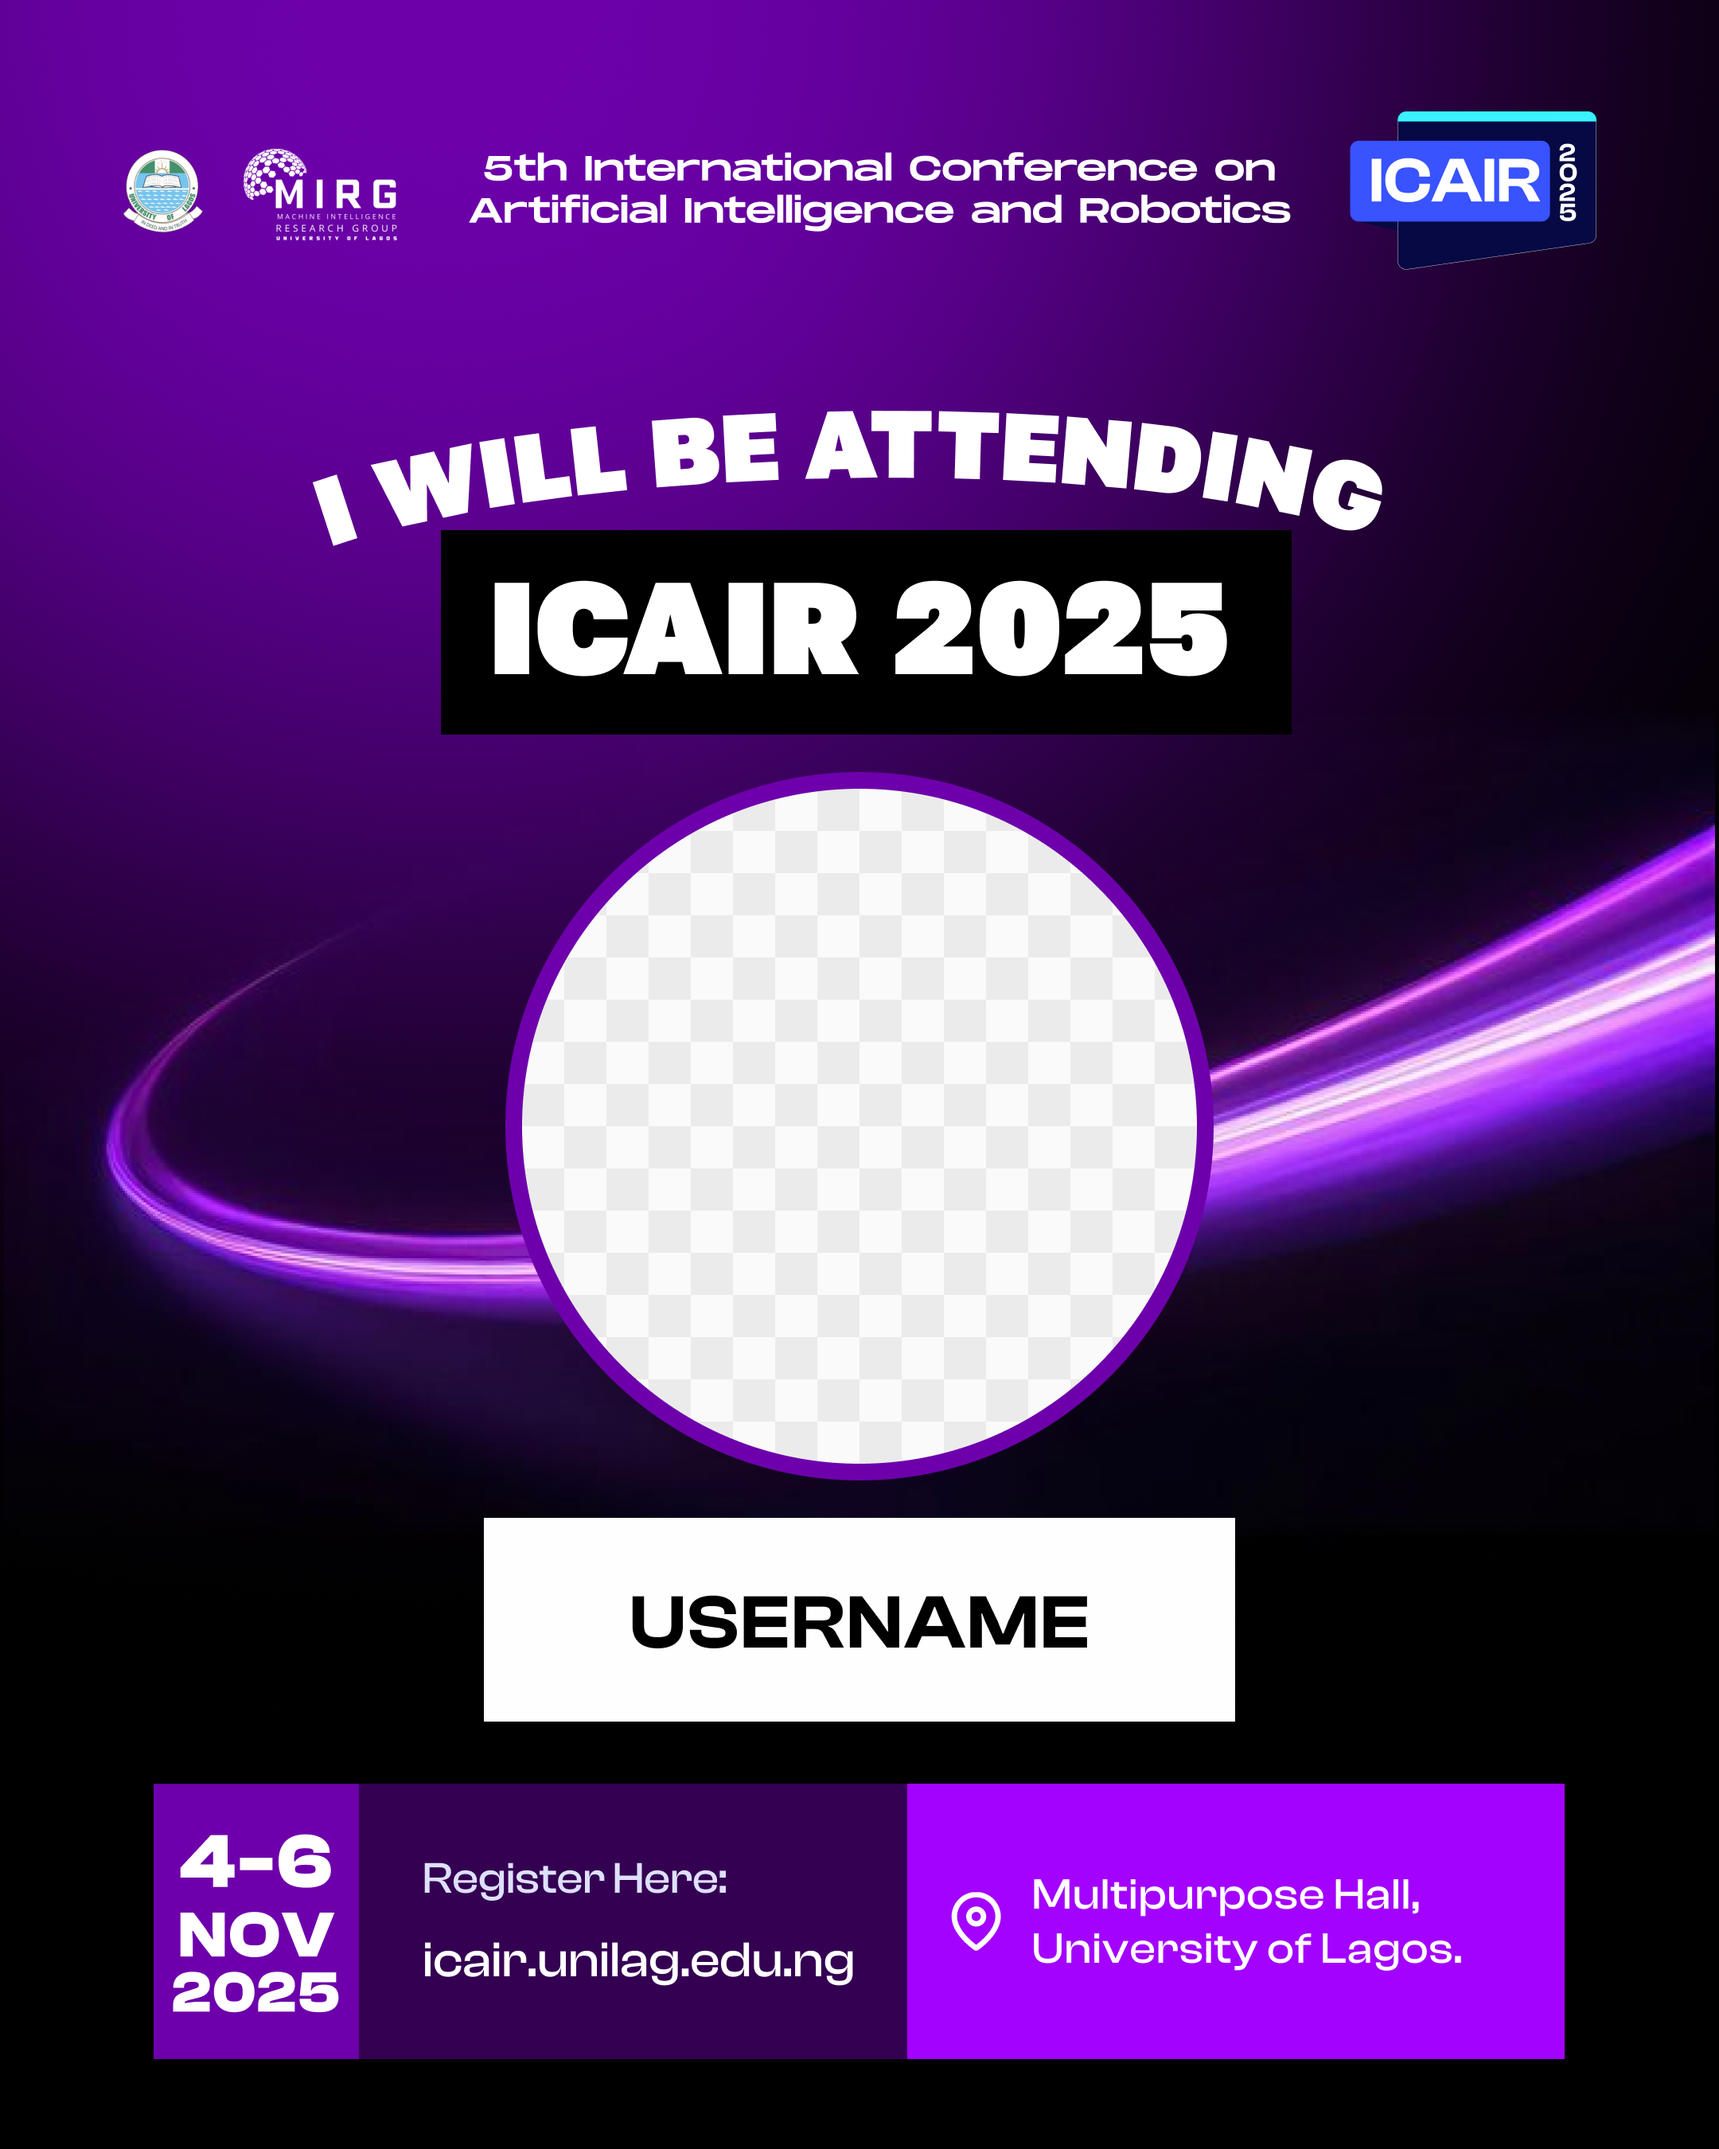
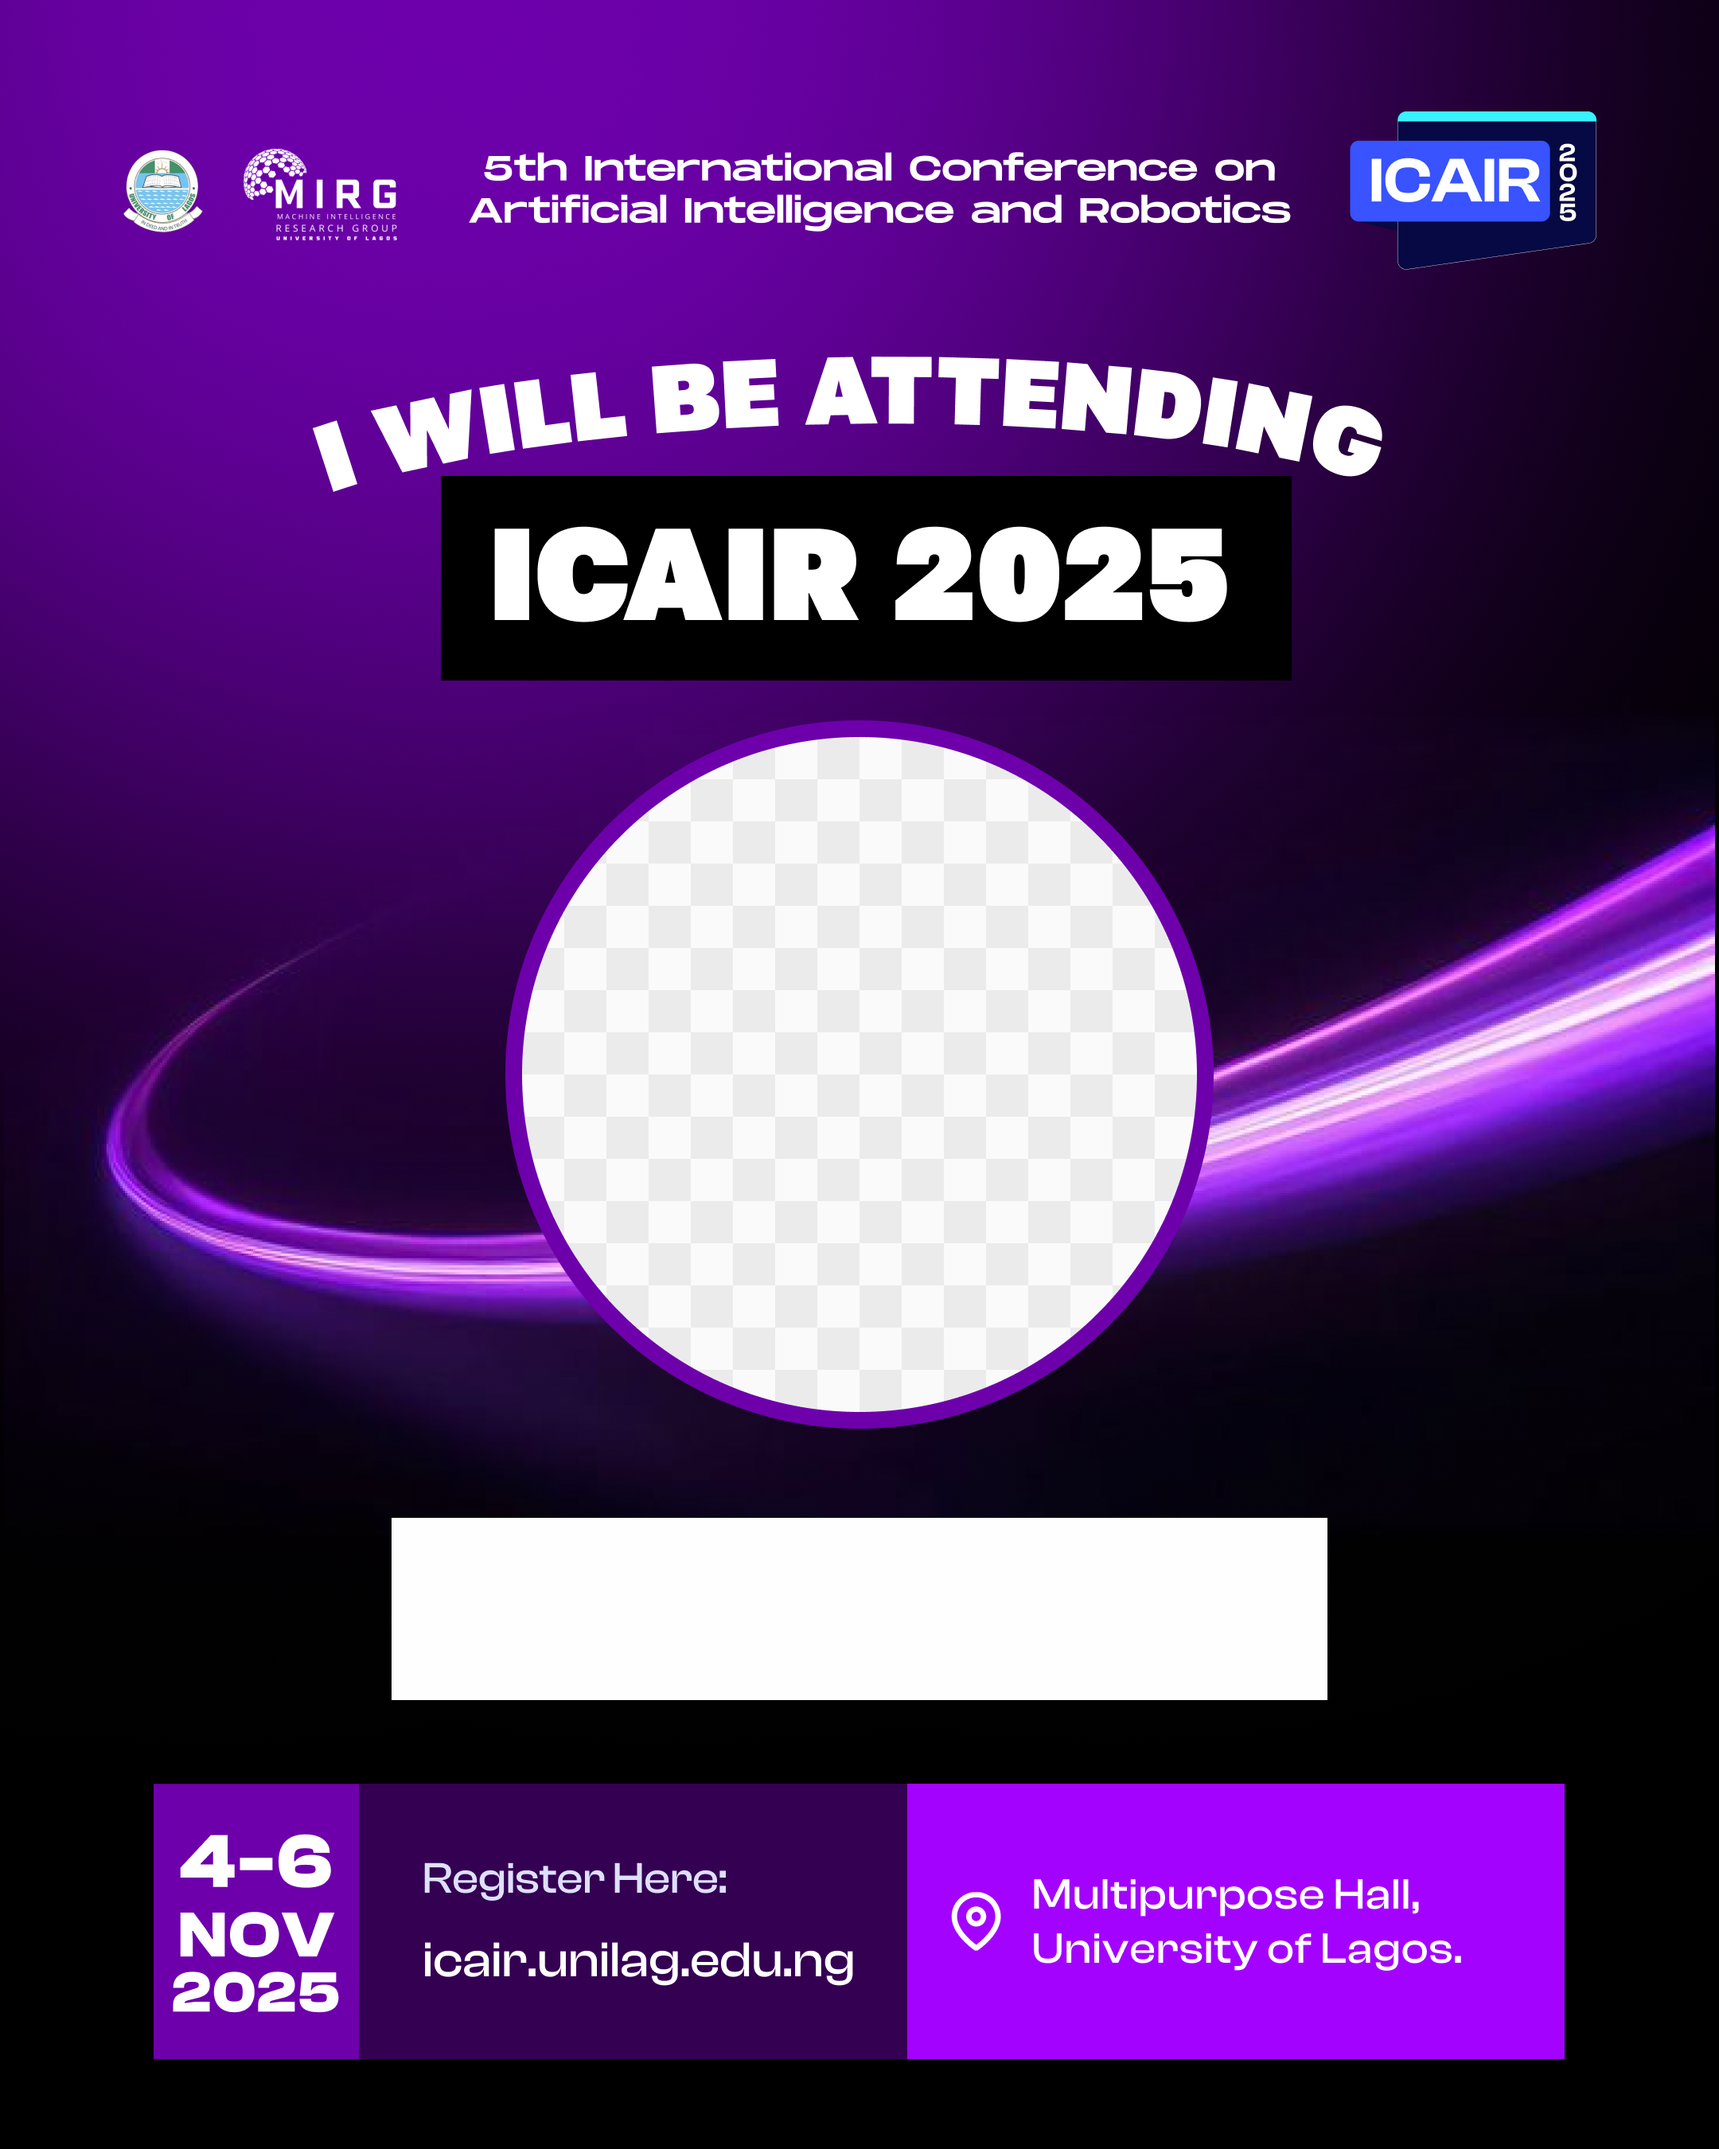
updated dp image

Changed region(s): [[0.1861, 0.1556, 0.8065, 0.7156], [0.2171, 0.6844, 0.7755, 0.8089]]

diff --git a/templates/index.html b/templates/index.html
@@ -279,14 +279,14 @@
 </head>
 <body>
     <div class="container">
-        <h1>ICAIR 2025</h1>
-        <p class="subtitle">Generate your conference profile picture</p>
+        <h1 id="pageTitle">ICAIR 2025</h1>
+        <p class="subtitle" id="pageSubtitle">Generate your conference profile picture</p>
 
         <div class="error-message" id="errorMessage"></div>
 
         <div class="input-group">
-            <label for="usernameInput">Username <span style="color: #dc2626;">*</span></label>
-            <input type="text" id="usernameInput" placeholder="Enter your username" maxlength="30" required>
+            <label for="usernameInput">Name <span style="color: #dc2626;">*</span></label>
+            <input type="text" id="usernameInput" placeholder="Enter your name" maxlength="30" required>
         </div>
 
         <div class="upload-area" id="uploadArea">
@@ -357,11 +357,13 @@
         function handleFile(file) {
             if (!file.type.startsWith('image/')) {
                 showError('Please upload an image file');
+                fileInput.value = '';
                 return;
             }
 
             if (file.size > 16 * 1024 * 1024) {
                 showError('File size must be less than 16MB');
+                fileInput.value = '';
                 return;
             }
 
@@ -372,7 +374,9 @@
             const username = usernameInput.value.trim();
 
             if (!username) {
-                showError('Please enter your username');
+                showError('Please enter your name');
+                usernameInput.focus();
+                fileInput.value = '';
                 return;
             }
 
@@ -402,6 +406,9 @@
                 loading.classList.remove('show');
                 previewContainer.classList.add('show');
 
+                document.getElementById('pageTitle').textContent = 'Your Profile Picture is Ready!';
+                document.getElementById('pageSubtitle').textContent = 'Download your customized ICAIR 2025 profile picture';
+
             } catch (error) {
                 console.error('Error:', error);
                 showError(error.message);
@@ -424,6 +431,9 @@
             fileInput.value = '';
             usernameInput.value = '';
             hideError();
+
+            document.getElementById('pageTitle').textContent = 'ICAIR 2025';
+            document.getElementById('pageSubtitle').textContent = 'Generate your conference profile picture';
         });
 
         function showError(message) {

diff --git a/main.py b/main.py
@@ -35,7 +35,7 @@ def process_image():
         frame_width, frame_height = frame.size
 
         circle_center_x = frame_width // 2
-        circle_center_y = int(frame_height * 0.525)
+        circle_center_y = int(frame_height * 0.50)
         circle_diameter = int(frame_width * 0.395)
         circle_radius = circle_diameter // 2
 
@@ -103,32 +103,69 @@ def add_username_text(draw, username, frame_width, frame_height):
     username = username.upper()
 
     text_box_center_y = int(frame_height * 0.745)
-    text_box_width = int(frame_width * 0.55)
+    text_box_width = int(frame_width * 0.4)
 
     font_path = os.path.join(
         os.path.dirname(__file__),
         "fonts/ClashDisplay-Medium.otf",
     )
 
-    base_font_size = int(frame_width * 0.055)
+    base_font_size = int(frame_width * 0.04)
     font = ImageFont.truetype(font_path, base_font_size)
 
     text_bbox = draw.textbbox((0, 0), username, font=font)
     text_width = text_bbox[2] - text_bbox[0]
-    text_height = text_bbox[3] - text_bbox[1]
+
+    lines = [username]
 
     if text_width > text_box_width:
-        scale_factor = text_box_width / text_width
-        new_font_size = int(base_font_size * scale_factor * 0.95)
+        words = username.split()
+        if len(words) > 1:
+            lines = []
+            current_line = []
+
+            for word in words:
+                test_line = " ".join(current_line + [word])
+                test_bbox = draw.textbbox((0, 0), test_line, font=font)
+                test_width = test_bbox[2] - test_bbox[0]
+
+                if test_width <= text_box_width:
+                    current_line.append(word)
+                else:
+                    if current_line:
+                        lines.append(" ".join(current_line))
+                        current_line = [word]
+                    else:
+                        lines.append(word)
+
+            if current_line:
+                lines.append(" ".join(current_line))
+
+    max_line_width = 0
+    for line in lines:
+        line_bbox = draw.textbbox((0, 0), line, font=font)
+        line_width = line_bbox[2] - line_bbox[0]
+        max_line_width = max(max_line_width, line_width)
+
+    if max_line_width > text_box_width:
+        scale_factor = text_box_width / max_line_width
+        new_font_size = int(base_font_size * scale_factor * 0.9)
         font = ImageFont.truetype(font_path, new_font_size)
-        text_bbox = draw.textbbox((0, 0), username, font=font)
-        text_width = text_bbox[2] - text_bbox[0]
-        text_height = text_bbox[3] - text_bbox[1]
+        base_font_size = new_font_size
 
-    text_x = (frame_width - text_width) // 2
-    text_y = text_box_center_y - (text_height // 2)
+    sample_bbox = draw.textbbox((0, 0), "A", font=font)
+    single_line_height = sample_bbox[3] - sample_bbox[1]
+    line_spacing = int(single_line_height * 0.3)
 
-    draw.text((text_x, text_y), username, fill=(0, 0, 0, 255), font=font)
+    total_height = (single_line_height * len(lines)) + (line_spacing * (len(lines) - 1))
+    start_y = text_box_center_y - (total_height // 2)
+
+    for i, line in enumerate(lines):
+        line_bbox = draw.textbbox((0, 0), line, font=font)
+        line_width = line_bbox[2] - line_bbox[0]
+        text_x = (frame_width - line_width) // 2
+        text_y = start_y + (i * (single_line_height + line_spacing))
+        draw.text((text_x, text_y), line, fill=(0, 0, 0, 255), font=font)
 
 
 if __name__ == "__main__":
